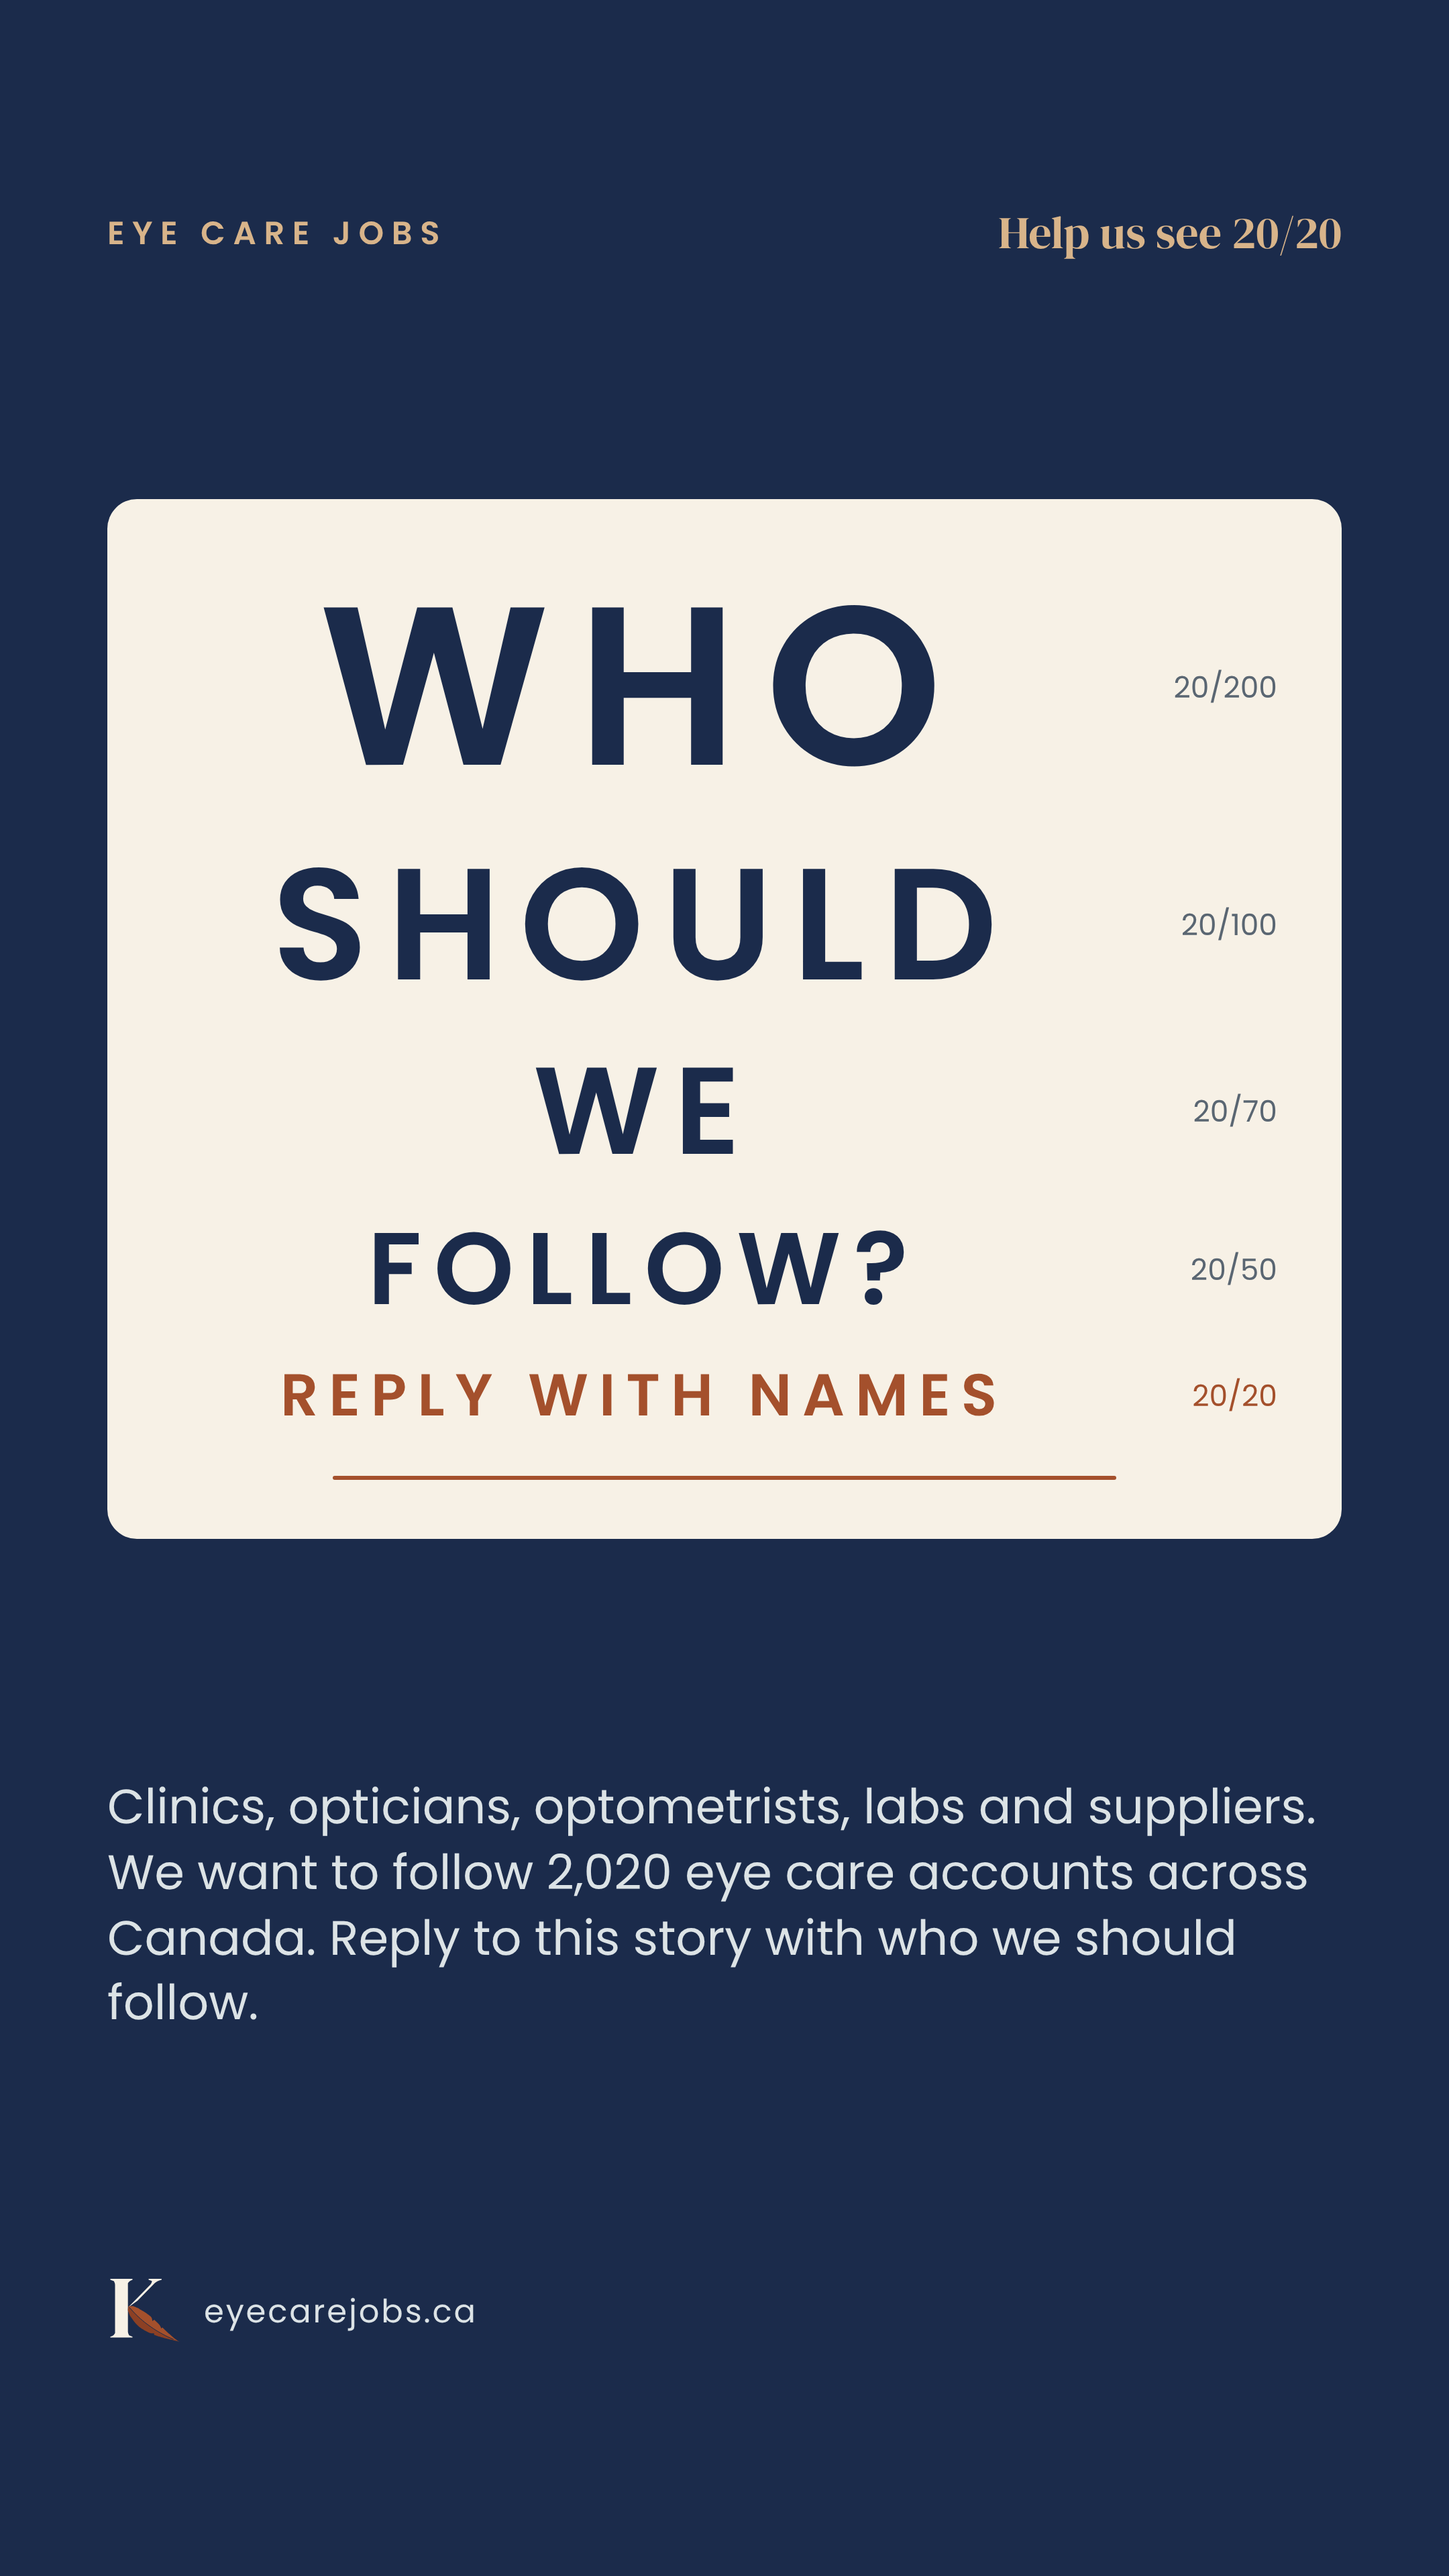
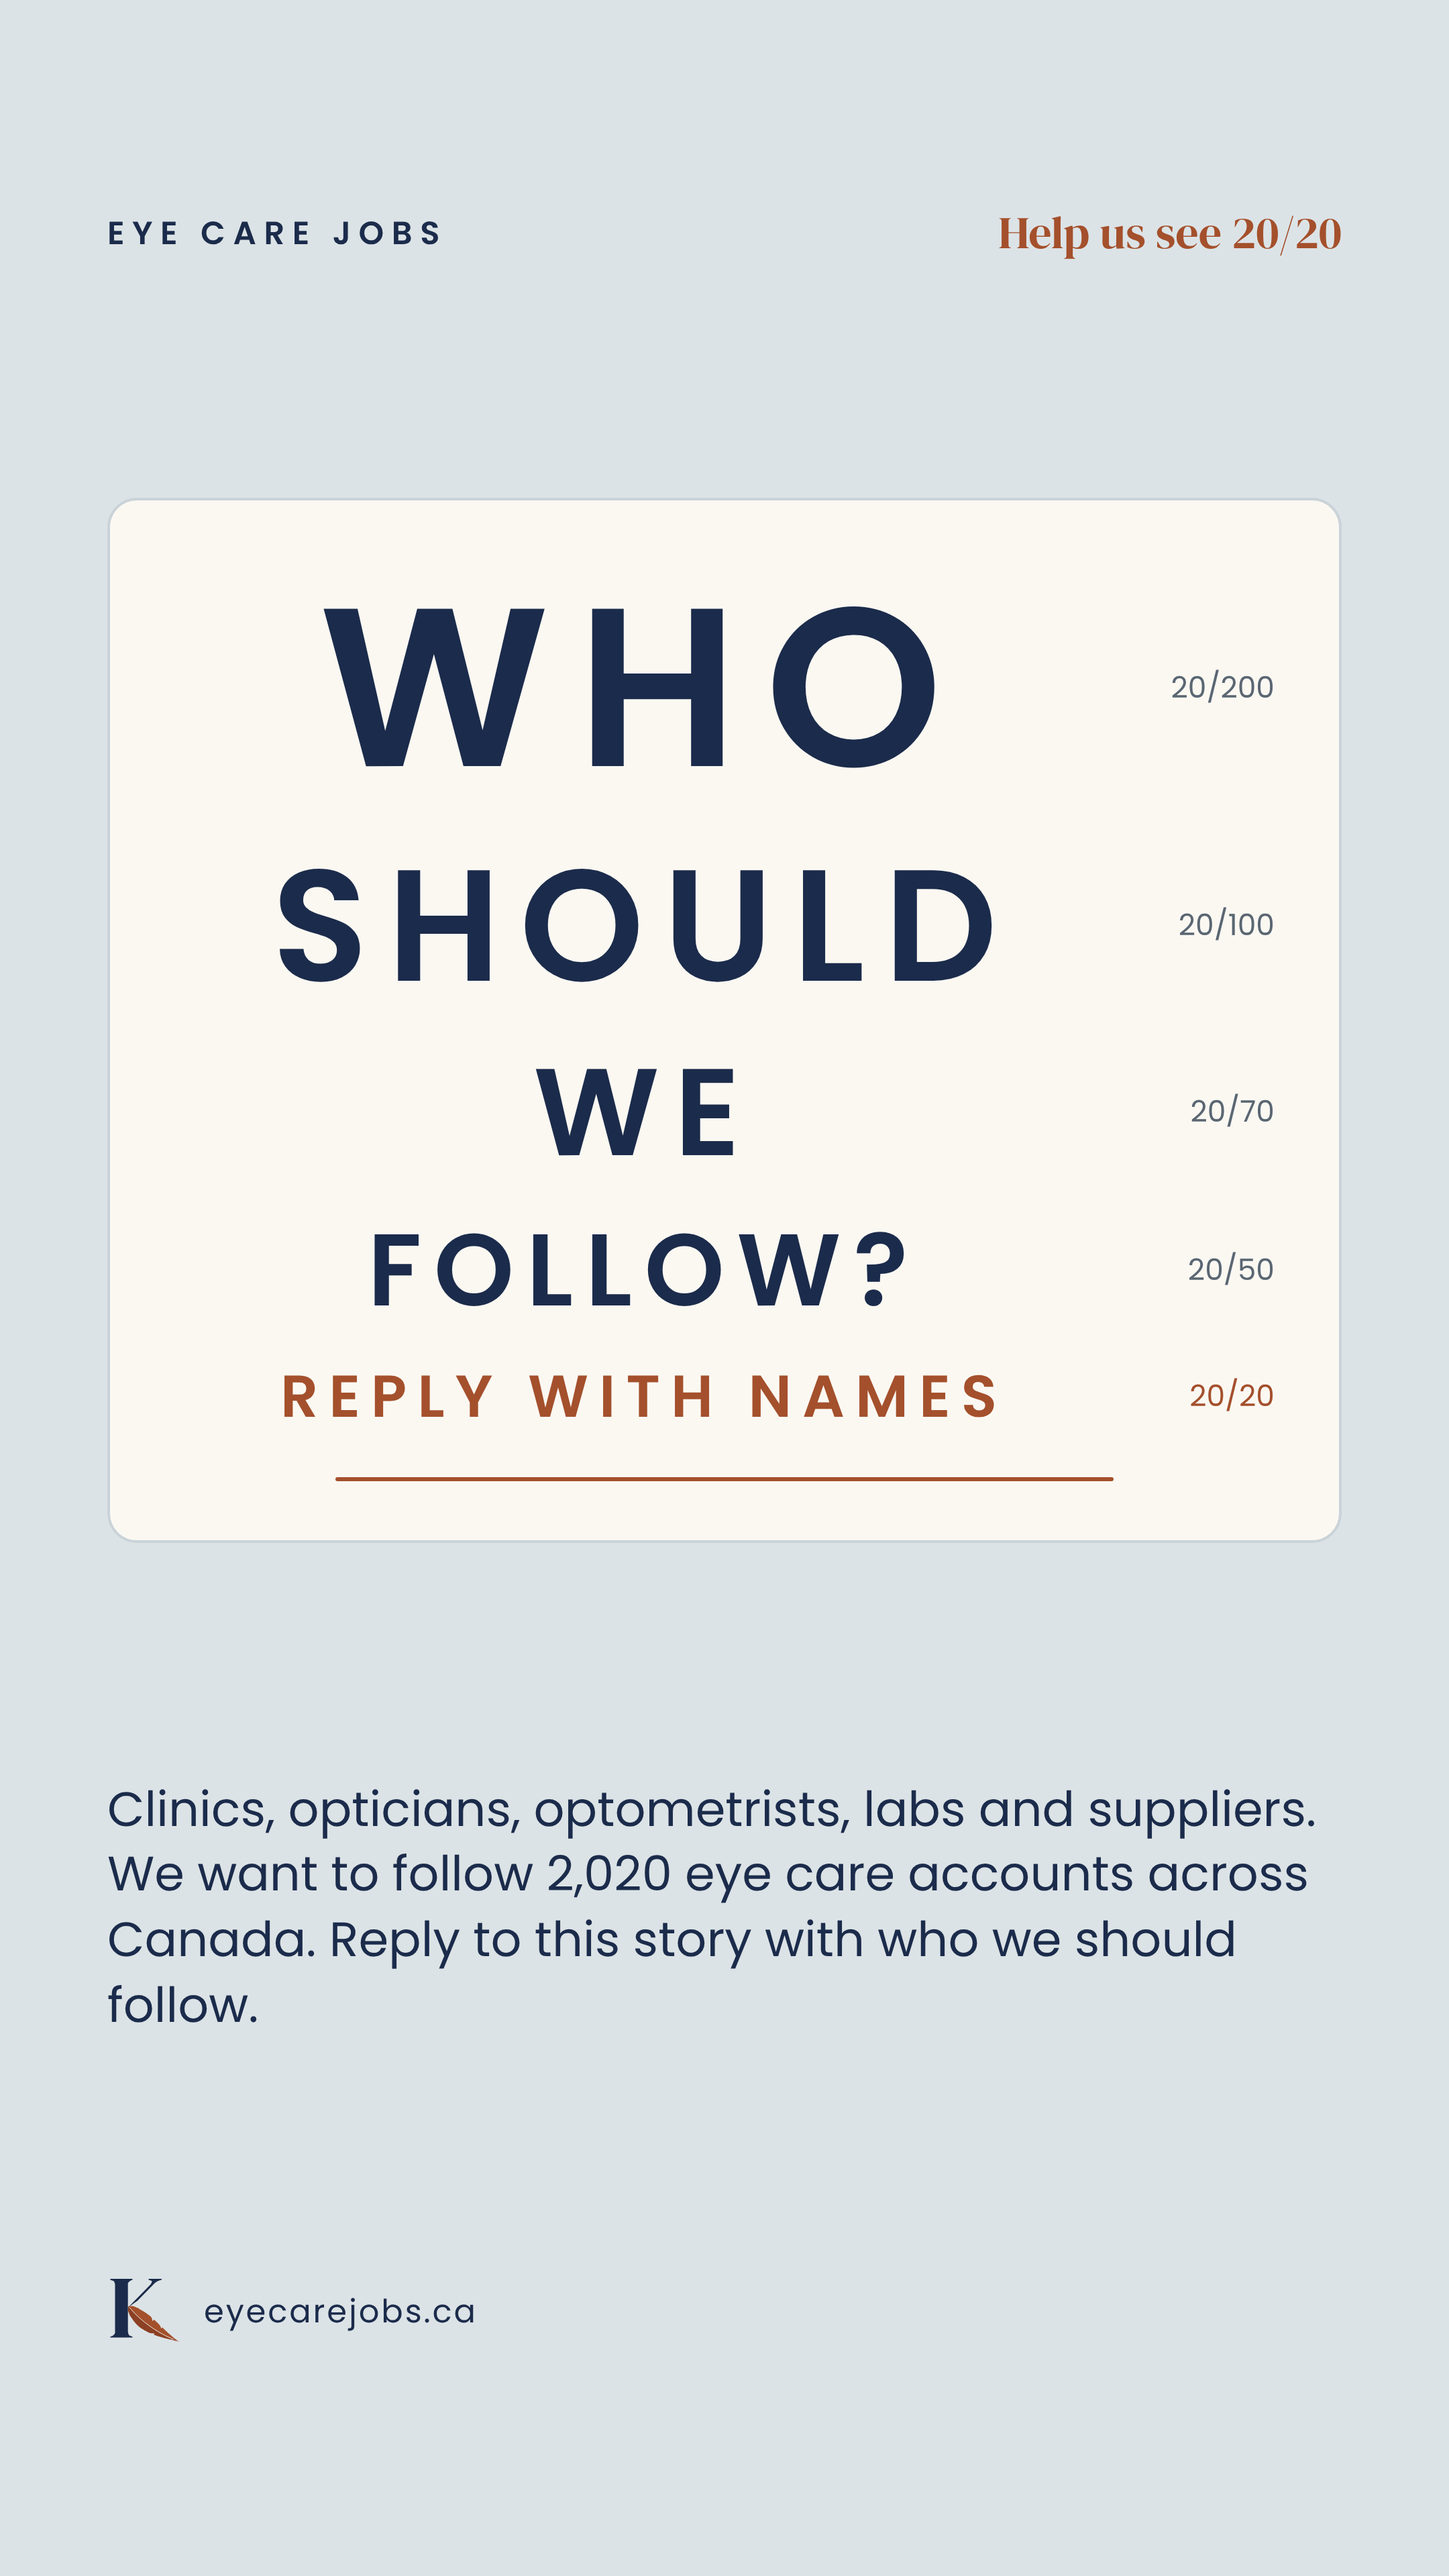
Who should we follow? on the pale blue background, as Steve asked
Claude-Session: https://claude.ai/code/session_01K4dgNT51gJd3askETDhfdz

diff --git a/design/social-and-merch/instagram-guides/x01-who-should-we-follow-story.html b/design/social-and-merch/instagram-guides/x01-who-should-we-follow-story.html
@@ -3,12 +3,12 @@
 @font-face{font-family:Poppins;font-weight:400;src:url(file:///home/user/Kestrel/node_modules/@fontsource/poppins/files/poppins-latin-400-normal.woff2)}
 @font-face{font-family:Poppins;font-weight:600;src:url(file:///home/user/Kestrel/node_modules/@fontsource/poppins/files/poppins-latin-600-normal.woff2)}
 body{margin:0}</style></head><body>
-<div style="width:1080px;height:1920px;box-sizing:border-box;padding:150px 80px 170px;background:#1B2B4B;display:flex;flex-direction:column;justify-content:space-between">
+<div style="width:1080px;height:1920px;box-sizing:border-box;padding:150px 80px 170px;background:#DCE3E6;display:flex;flex-direction:column;justify-content:space-between">
 <div style="display:flex;justify-content:space-between;align-items:center">
-<p style="margin:0;font-family:Poppins;font-weight:600;font-size:24px;letter-spacing:0.24em;color:#D8B48A">EYE CARE JOBS</p>
-<p style="margin:0;font-family:'DM Serif Display';font-size:34px;color:#D8B48A">Help us see 20/20</p>
+<p style="margin:0;font-family:Poppins;font-weight:600;font-size:24px;letter-spacing:0.24em;color:#1B2B4B">EYE CARE JOBS</p>
+<p style="margin:0;font-family:'DM Serif Display';font-size:34px;color:#A4502C">Help us see 20/20</p>
 </div>
-<div style="background:#F7F1E6;border-radius:22px;padding:56px 48px 44px;display:flex;flex-direction:column;gap:34px">
+<div style="background:#FBF8F2;border:2px solid #C9D3D8;border-radius:22px;padding:56px 48px 44px;display:flex;flex-direction:column;gap:34px">
 <div style="display:flex;align-items:center;gap:24px">
 <span style="flex:1;text-align:center;font-family:Poppins;font-weight:600;font-size:168px;line-height:1;letter-spacing:0.12em;color:#1B2B4B">WHO</span>
 <span style="width:96px;text-align:right;font-family:Poppins;font-size:22px;color:#5A6672">20/200</span></div><div style="display:flex;align-items:center;gap:24px">
@@ -22,8 +22,8 @@ body{margin:0}</style></head><body>
 <span style="width:96px;text-align:right;font-family:Poppins;font-size:22px;color:#A4502C">20/20</span></div>
 <div style="height:3px;background:#A4502C;margin:4px 120px 0;border-radius:2px"></div>
 </div>
-<p style="margin:0;font-family:Poppins;font-size:36px;line-height:1.35;color:#DCE3E6">Clinics, opticians, optometrists, labs and suppliers. We want to follow 2,020 eye care accounts across Canada. Reply to this story with who we should follow.</p>
+<p style="margin:0;font-family:Poppins;font-size:36px;line-height:1.35;color:#1B2B4B">Clinics, opticians, optometrists, labs and suppliers. We want to follow 2,020 eye care accounts across Canada. Reply to this story with who we should follow.</p>
 <div style="display:flex;align-items:center;gap:16px">
-<img src="file:///home/user/Kestrel/public/brand/kestrel-k-mark-reversed.svg" alt="" style="width:56px;height:56px;display:block">
-<p style="margin:0;font-family:Poppins;font-size:24px;letter-spacing:0.06em;color:#DCE3E6">eyecarejobs.ca</p>
+<img src="file:///home/user/Kestrel/public/brand/kestrel-k-mark.svg" alt="" style="width:56px;height:56px;display:block">
+<p style="margin:0;font-family:Poppins;font-size:24px;letter-spacing:0.06em;color:#1B2B4B">eyecarejobs.ca</p>
 </div></div></body></html>

diff --git a/design/social-and-merch/instagram-guides/x01-who-should-we-follow.html b/design/social-and-merch/instagram-guides/x01-who-should-we-follow.html
@@ -3,12 +3,12 @@
 @font-face{font-family:Poppins;font-weight:400;src:url(file:///home/user/Kestrel/node_modules/@fontsource/poppins/files/poppins-latin-400-normal.woff2)}
 @font-face{font-family:Poppins;font-weight:600;src:url(file:///home/user/Kestrel/node_modules/@fontsource/poppins/files/poppins-latin-600-normal.woff2)}
 body{margin:0}</style></head><body>
-<div style="width:1080px;height:1350px;box-sizing:border-box;padding:80px;background:#1B2B4B;display:flex;flex-direction:column;justify-content:space-between">
+<div style="width:1080px;height:1350px;box-sizing:border-box;padding:80px;background:#DCE3E6;display:flex;flex-direction:column;justify-content:space-between">
 <div style="display:flex;justify-content:space-between;align-items:center">
-<p style="margin:0;font-family:Poppins;font-weight:600;font-size:24px;letter-spacing:0.24em;color:#D8B48A">EYE CARE JOBS</p>
-<p style="margin:0;font-family:'DM Serif Display';font-size:34px;color:#D8B48A">Help us see 20/20</p>
+<p style="margin:0;font-family:Poppins;font-weight:600;font-size:24px;letter-spacing:0.24em;color:#1B2B4B">EYE CARE JOBS</p>
+<p style="margin:0;font-family:'DM Serif Display';font-size:34px;color:#A4502C">Help us see 20/20</p>
 </div>
-<div style="background:#F7F1E6;border-radius:22px;padding:56px 48px 44px;display:flex;flex-direction:column;gap:22px">
+<div style="background:#FBF8F2;border:2px solid #C9D3D8;border-radius:22px;padding:56px 48px 44px;display:flex;flex-direction:column;gap:22px">
 <div style="display:flex;align-items:center;gap:24px">
 <span style="flex:1;text-align:center;font-family:Poppins;font-weight:600;font-size:168px;line-height:1;letter-spacing:0.12em;color:#1B2B4B">WHO</span>
 <span style="width:96px;text-align:right;font-family:Poppins;font-size:22px;color:#5A6672">20/200</span></div><div style="display:flex;align-items:center;gap:24px">
@@ -22,8 +22,8 @@ body{margin:0}</style></head><body>
 <span style="width:96px;text-align:right;font-family:Poppins;font-size:22px;color:#A4502C">20/20</span></div>
 <div style="height:3px;background:#A4502C;margin:4px 120px 0;border-radius:2px"></div>
 </div>
-<p style="margin:0;font-family:Poppins;font-size:36px;line-height:1.35;color:#DCE3E6">Clinics, opticians, optometrists, labs and suppliers. We want to follow 2,020 eye care accounts across Canada. Tag them below.</p>
+<p style="margin:0;font-family:Poppins;font-size:36px;line-height:1.35;color:#1B2B4B">Clinics, opticians, optometrists, labs and suppliers. We want to follow 2,020 eye care accounts across Canada. Tag them below.</p>
 <div style="display:flex;align-items:center;gap:16px">
-<img src="file:///home/user/Kestrel/public/brand/kestrel-k-mark-reversed.svg" alt="" style="width:56px;height:56px;display:block">
-<p style="margin:0;font-family:Poppins;font-size:24px;letter-spacing:0.06em;color:#DCE3E6">eyecarejobs.ca</p>
+<img src="file:///home/user/Kestrel/public/brand/kestrel-k-mark.svg" alt="" style="width:56px;height:56px;display:block">
+<p style="margin:0;font-family:Poppins;font-size:24px;letter-spacing:0.06em;color:#1B2B4B">eyecarejobs.ca</p>
 </div></div></body></html>

diff --git a/docs/marketing/instagram-master-schedule.md b/docs/marketing/instagram-master-schedule.md
@@ -12,7 +12,7 @@ Revised 14th November 2026 for **a launch on Monday 25th January 2027** (Steve: 
 
 ## Extra post: Who should we follow? (Steve, 15th November 2026)
 
-Not part of the numbered order. **Post it, then pin it** (Instagram allows 3 pins, beside posts 8 and 9). A pinned post leaves the grid order, so the colour plan for posts 10 to 40 is unchanged; posting it unpinned would shift every later post by 1 square and break the plan. With 3 pins the top row is all pins, and each new post then starts the second row. Images: `design/social-and-merch/instagram-guides/x01-who-should-we-follow.png` (feed) and `x01-who-should-we-follow-story.png` (story, asking for replies). The goal is to follow 2,020 eye care accounts, a play on 20/20.
+Pale blue background (Steve, 15th November 2026). Not part of the numbered order. **Post it, then pin it** (Instagram allows 3 pins, beside posts 8 and 9). A pinned post leaves the grid order, so the colour plan for posts 10 to 40 is unchanged; posting it unpinned would shift every later post by 1 square and break the plan. With 3 pins the top row is all pins, and each new post then starts the second row. Images: `design/social-and-merch/instagram-guides/x01-who-should-we-follow.png` (feed) and `x01-who-should-we-follow-story.png` (story, asking for replies). The goal is to follow 2,020 eye care accounts, a play on 20/20.
 
 Caption:
 ```text
@@ -26,7 +26,7 @@ Tag them below, or tag yourself. Help us get to 20/20.
 ```
 Alt text:
 ```text
-An eye chart on navy. The lines get smaller: WHO, SHOULD, WE, FOLLOW?, and on the 20/20 line, TAG THEM BELOW. Underneath: Clinics, opticians, optometrists, labs and suppliers. We want to follow 2,020 eye care accounts across Canada.
+An eye chart on a pale blue background. The lines get smaller: WHO, SHOULD, WE, FOLLOW?, and on the 20/20 line, TAG THEM BELOW. Underneath: Clinics, opticians, optometrists, labs and suppliers. We want to follow 2,020 eye care accounts across Canada.
 ```
 
 ## The calendar
